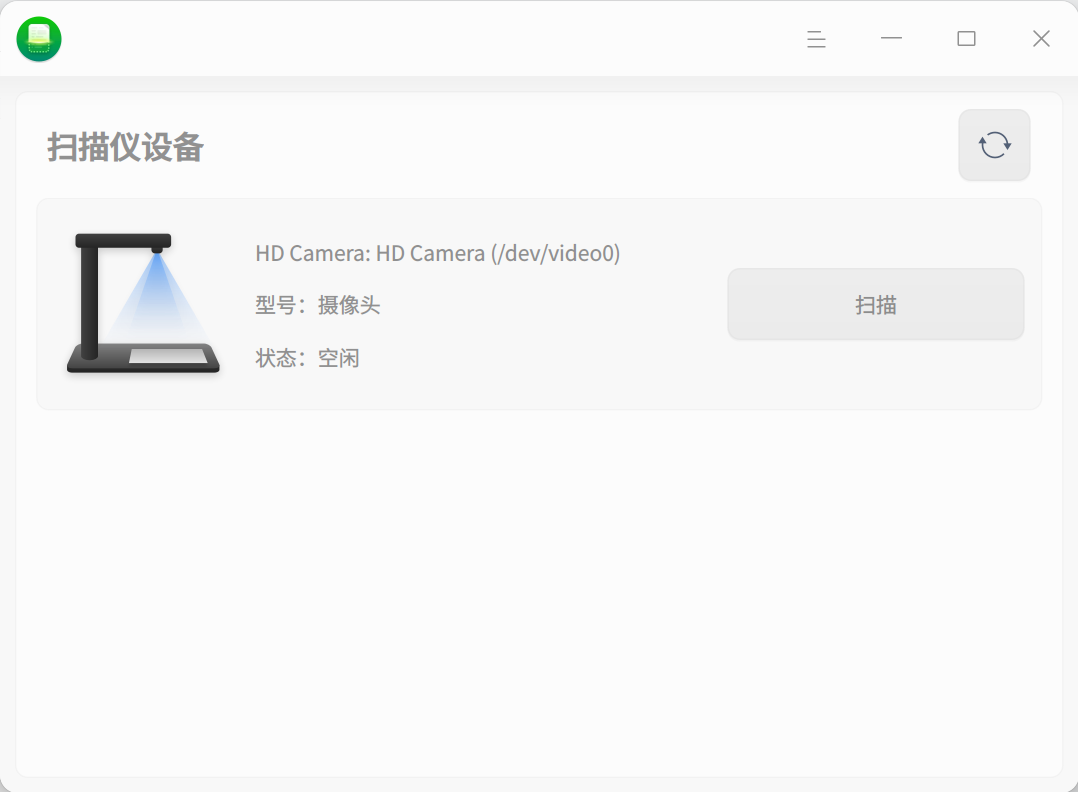
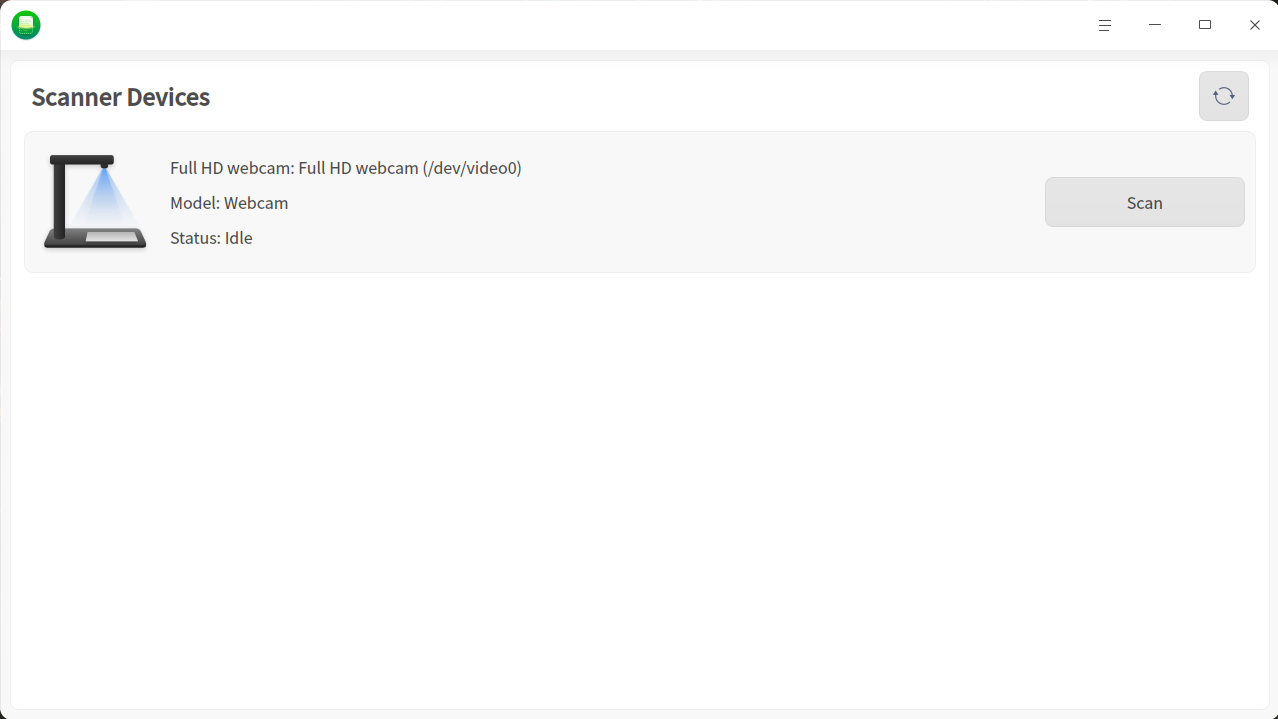
fix: correct the scan manager help manual screenshots and step numbering
Every locale of the help manual pointed at the same Simplified Chinese
screenshots, and the zh_CN section for the camera numbered its steps 1, 2, 4.
The manual now references a screenshot per locale (Simplified Chinese _zh,
Traditional Chinese _hk, English keeps the shared images) and the zh_CN step
is numbered 3.

帮助手册各语言版本共用同一组简体中文界面截图，且 zh_CN 拍摄仪章节的步骤编号为 1、2、4。
现按语言引用对应截图（简中 _zh、繁中 _hk，英文沿用共用图），zh_CN 的编号改为 3。

Log: 修正扫描管理器帮助手册的分语言截图与步骤编号
PMS: BUG-324749 (V-5777), BUG-325143 (V-5776)
Influence: 简体/繁体中文帮助手册显示对应语言的界面截图，zh_CN 拍摄仪章节步骤编号为 1、2、3。

diff --git a/assets/deepin-scanner/scan-manager/zh_HK/scan-manager.md b/assets/deepin-scanner/scan-manager/zh_HK/scan-manager.md
@@ -25,7 +25,7 @@
 ## 掃描操作介紹
 將掃描設備與電腦連接，並打開掃描設備的開關。
 打開掃描管理器，系統會自動掃描當前電腦上連接的所有掃描設備，如拍攝儀和掃描儀。如果沒有顯示對應的設備列表，則需要安裝驅動。
-![homepage](../common/homepage.png)
+![homepage](../common/homepage_hk.png)
 
 ### 安裝驅動
 1.  在官網下載掃描設備對應的.deb 驅動安裝包。
@@ -37,7 +37,7 @@
 1.  在設備列表中選擇拍攝儀並單擊 **掃描**，進入掃描頁面。
 2.  在頁面右側設置掃描參數，包括掃描設置、裁剪及圖像處理方案等。
     **掃描設置**：設置掃描圖片的分辨率、色彩模式及圖片格式。當前支持彩色 / 灰度 / 黑白三種色彩模式，支持 jpg/bmp/tif/png 四種圖片格式，且支持掃描為 pdf、ofd 文檔。
-    ![camera\_settings](../common/camera_settings.png)
+    ![camera\_settings](../common/camera_settings_hk.png)
 3.  完成設置後，單擊掃描按鈕![scan\_botton](../common/scan_botton.png)，掃描的圖片可以在 “查看已掃描圖像” 中查看。
 
 
@@ -62,4 +62,3 @@
 ### 退出
 1.  在掃描管理器頁面，單擊![icon\_menu](../common/icon_menu.svg)
 2.  單擊 **退出**。
->

diff --git a/assets/deepin-scanner/scan-manager/zh_CN/scan-manager.md b/assets/deepin-scanner/scan-manager/zh_CN/scan-manager.md
@@ -33,7 +33,7 @@
 
 打开扫描管理器，系统会自动扫描当前电脑上连接的所有扫描设备，如拍摄仪和扫描仪。如果没有显示对应的设备列表，则需要安装驱动。
 
-![homepage](../common/homepage.png)
+![homepage](../common/homepage_zh.png)
 
 ### 安装驱动
 
@@ -44,16 +44,10 @@
 ### 拍摄仪
 
 1. 在设备列表中选择拍摄仪并单击 **扫描**，进入扫描页面。
-   
 2. 在页面右侧设置扫描参数，包括扫描设置、裁剪及图像处理方案等。
-   
     **扫描设置**：设置扫描图片的分辨率、色彩模式及图片格式。当前支持彩色/灰度/黑白三种色彩模式，支持jpg/bmp/tif/png四种图片格式，且支持扫描为pdf、ofd文档。
-    
-    
-    
-    ![camera_settings](../common/camera_settings.png)
-    
-4. 完成设置后，单击扫描按钮![scan_botton](../common/scan_botton.png)，扫描的图片可以在 “查看已扫描图像” 中查看。
+    ![camera\_settings](../common/camera_settings_zh.png)
+3. 完成设置后，单击扫描按钮![scan_botton](../common/scan_botton.png)，扫描的图片可以在 “查看已扫描图像” 中查看。
    
 
 ## 主菜单

diff --git a/assets/deepin-scanner/scan-manager/zh_TW/scan-manager.md b/assets/deepin-scanner/scan-manager/zh_TW/scan-manager.md
@@ -28,7 +28,7 @@
 ## 掃描操作介紹
 將掃描設備與電腦連接，並打開掃描設備的開關。
 打開掃描管理器，系統會自動掃描當前電腦上連接的所有掃描設備，如拍攝儀和掃描儀。如果沒有顯示對應的設備列表，則需要安裝驅動。
-![homepage](../common/homepage.png)
+![homepage](../common/homepage_hk.png)
 
 ### 安裝驅動
 
@@ -42,7 +42,7 @@
 1.  在設備列表中選擇拍攝儀並單擊 **掃描**，進入掃描頁面。
 2.  在頁面右側設置掃描參數，包括掃描設置、裁剪及圖像處理方案等。
     **掃描設置**：設置掃描圖片的分辨率、色彩模式及圖片格式。當前支持彩色 / 灰度 / 黑白三種色彩模式，支持 jpg/bmp/tif/png 四種圖片格式，且支持掃描為 pdf、ofd 文檔。
-    ![camera\_settings](../common/camera_settings.png)
+    ![camera\_settings](../common/camera_settings_hk.png)
 3.  完成設置後，單擊掃描按鈕![scan\_botton](../common/scan_botton.png)，掃描的圖片可以在 “查看已掃描圖像” 中查看。
 
 
